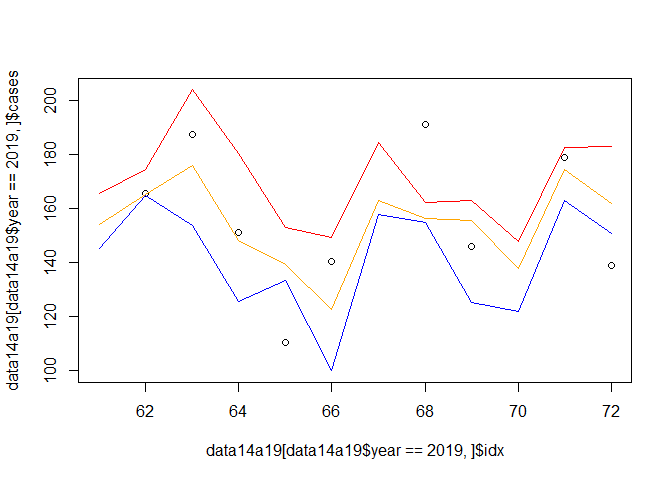
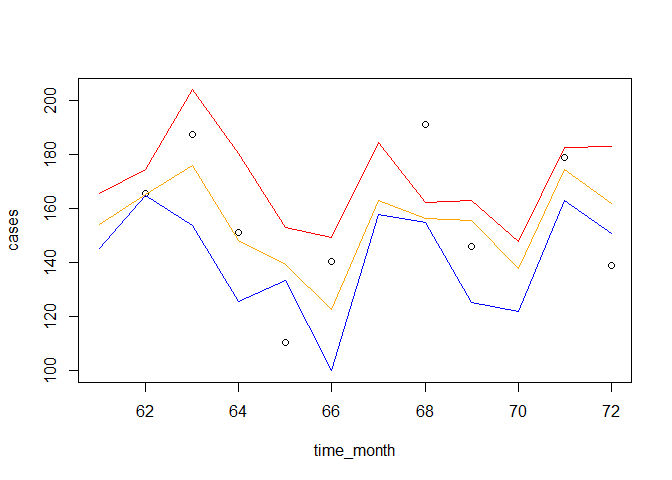
repair Readme

Changed region(s): [[0.0, 0.125, 0.0312, 0.8125], [0.3125, 0.9062, 0.5938, 0.9688], [0.625, 0.9062, 0.75, 0.9688]]

diff --git a/README.md b/README.md
@@ -7,7 +7,15 @@
 
 <!-- badges: end -->
 
-The goal of t4dse is to …
+The goal of `t4dse` is to share a collection of tools developed during
+the writing of the research project at [ITM](https://www.itg.be/) /
+[IPK](https://instituciones.sld.cu/ipk/) /
+[UGent](https://www.ugent.be/). This r package contains functions and
+data for disease stratification and intervention evaluation.
+
+This will help data science experts and epidemiologist with the
+computation of epidemiological statistics, like the creation of
+endemic/epidemic channels using surveillance data.
 
 ## Installation
 
@@ -16,7 +24,7 @@ You can install the development version of t4dse from
 
 ``` r
 # install.packages("devtools")
-devtools::install_github("wbr/t4dse")
+devtools::install_github("wbal/t4dse")
 ```
 
 ## Example
@@ -56,16 +64,40 @@ library(t4dse)
 #> 12 2019     12 161.9183 150.72073 182.9142
 ```
 
-What is special about using `README.Rmd` instead of just `README.md`?
-You can include R chunks like so:
+Plotting the endemic channel:
 
 ``` r
-
-  plot( data14a19[data14a19$year==2019,]$idx, data14a19[data14a19$year==2019,]$cases
+  time_month = data14a19[data14a19$year==2019,]$idx
+  cases = data14a19[data14a19$year==2019,]$cases
+  plot( x = time_month, y = cases 
         , ylim = c( min(endchan2019$supramin,na.rm = TRUE ),  max(endchan2019$inframax,na.rm = TRUE ))  )
-  lines( data14a19[data14a19$year==2019,]$idx,y= endchan2019$supramin, col="blue" )
-  lines( data14a19[data14a19$year==2019,]$idx,y= endchan2019$inframax , col="red")
-  lines(data14a19[data14a19$year==2019,]$idx,y= endchan2019$median , col="orange")
+  lines( time_month,y= endchan2019$supramin, col="blue" )
+  lines( time_month,y= endchan2019$inframax , col="red")
+  lines( time_month,y= endchan2019$median , col="orange")
 ```
 
-<img src="man/figures/README-fig-endemicchannel-plot-1.png" width="100%" />
+<div class="figure">
+
+<img src="man/figures/README-fig-endemicchannel-plot-1.png" alt="Endemic Channel, 2014-2019." width="100%" />
+<p class="caption">
+
+Endemic Channel, 2014-2019.
+</p>
+
+</div>
+
+## References
+
+- Baldoquín Rodríguez, W.; Mirabal, M.; Van der Stuyft, P.; Gómez
+  Padrón, T.; Fonseca, V.; Castillo, R.M.; Monteagudo Díaz, S.; Baetens,
+  J.M.; De Baets, B.; Toledo Romaní, M.E.; Vanlerbeghe, V. . The
+  Potential of Surveillance Data for Dengue Risk Mapping: An Evaluation
+  of Different Approaches in Cuba. Trop. Med. Infect. Dis. 2023, 8, 230.
+  <https://doi.org/10.3390/tropicalmed8040230>
+
+- Baldoquín Rodríguez, W.; Gómez Padrón, T.; Valdés García, L.E.;
+  Rodríguez Valdés, A.; Castillo R.M.; Del Pozo de los Reyes, D.;
+  Baetens, J.M.; De Baets, B.; Toledo Romaní, M.E.; Vanlerbeghe, V.
+  Effectiveness of a multicomponent dengue prevention strategy targeting
+  transmission hotspots in Santiago de Cuba, Cuba, 2015-2020 \[in
+  review\]
